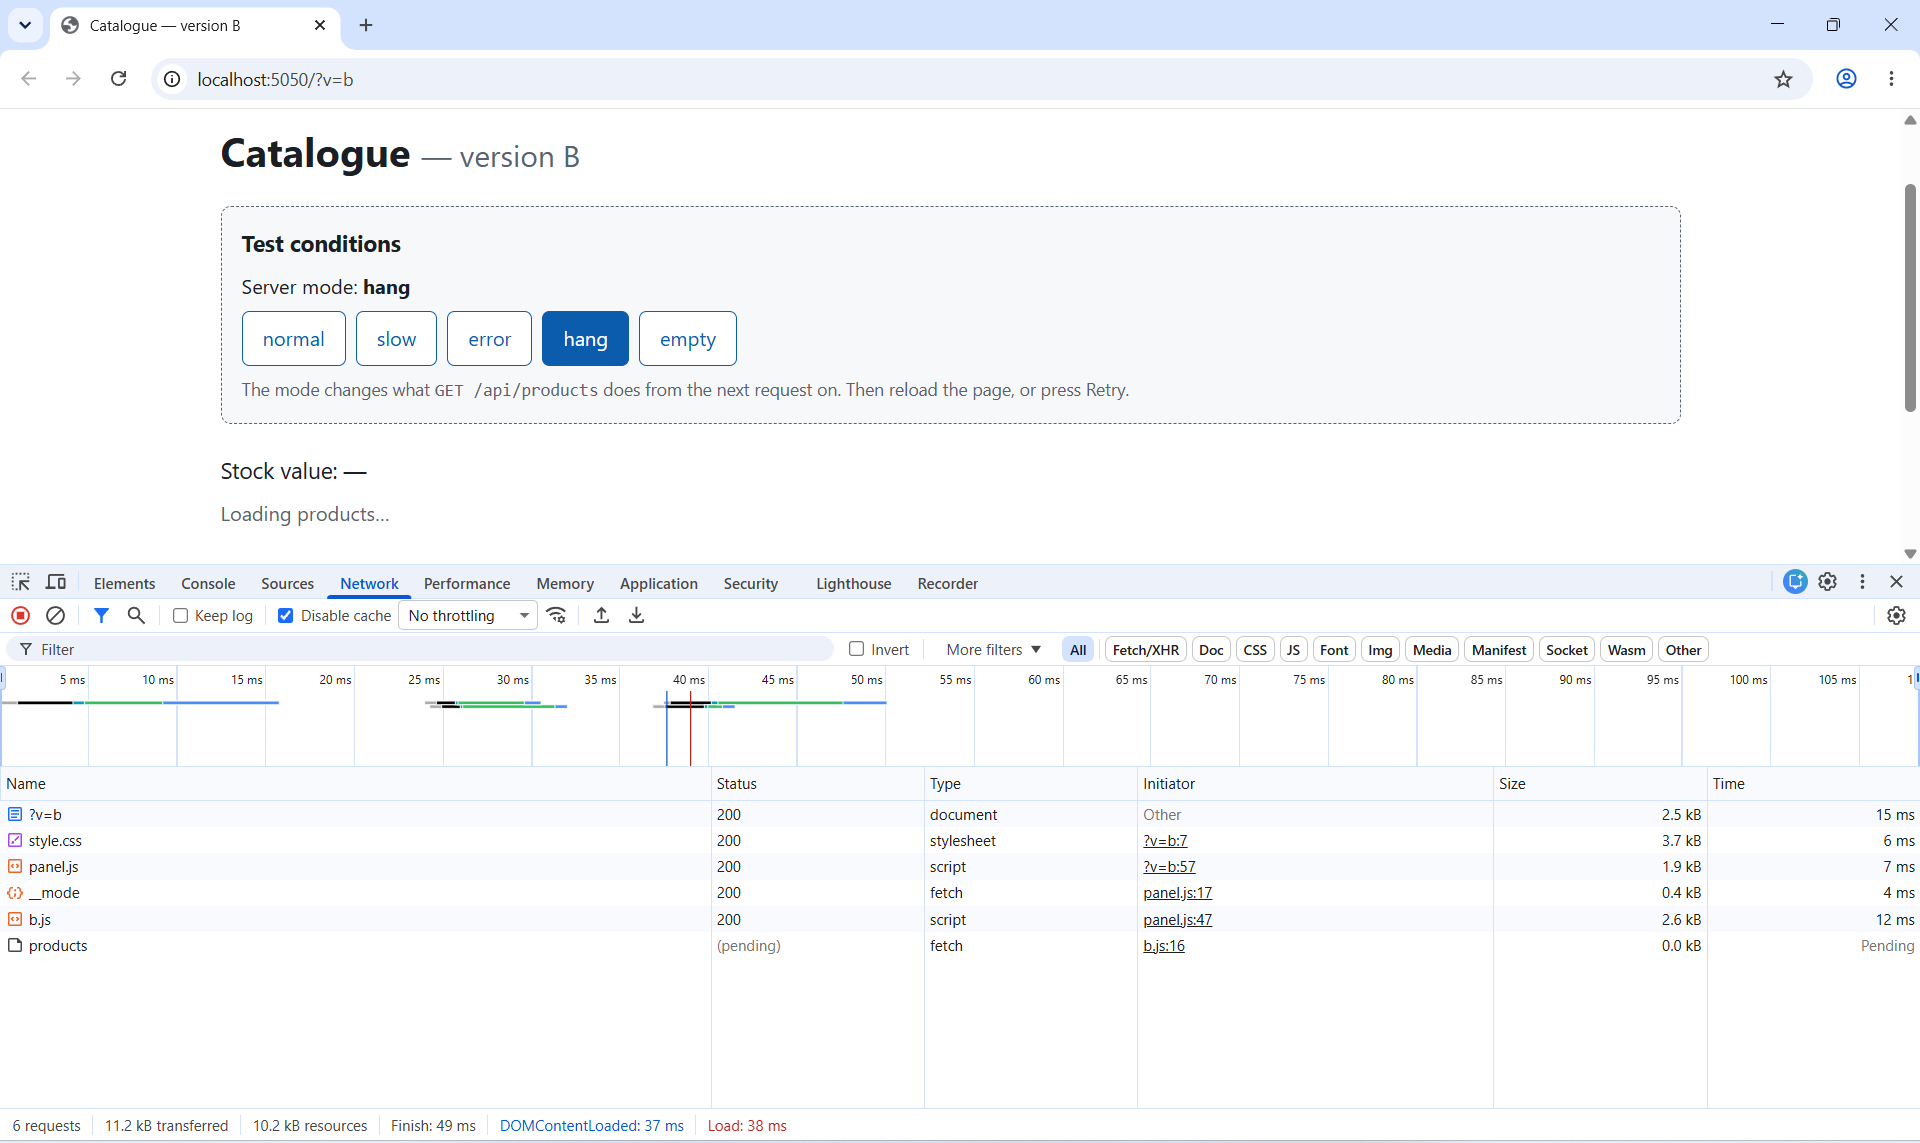
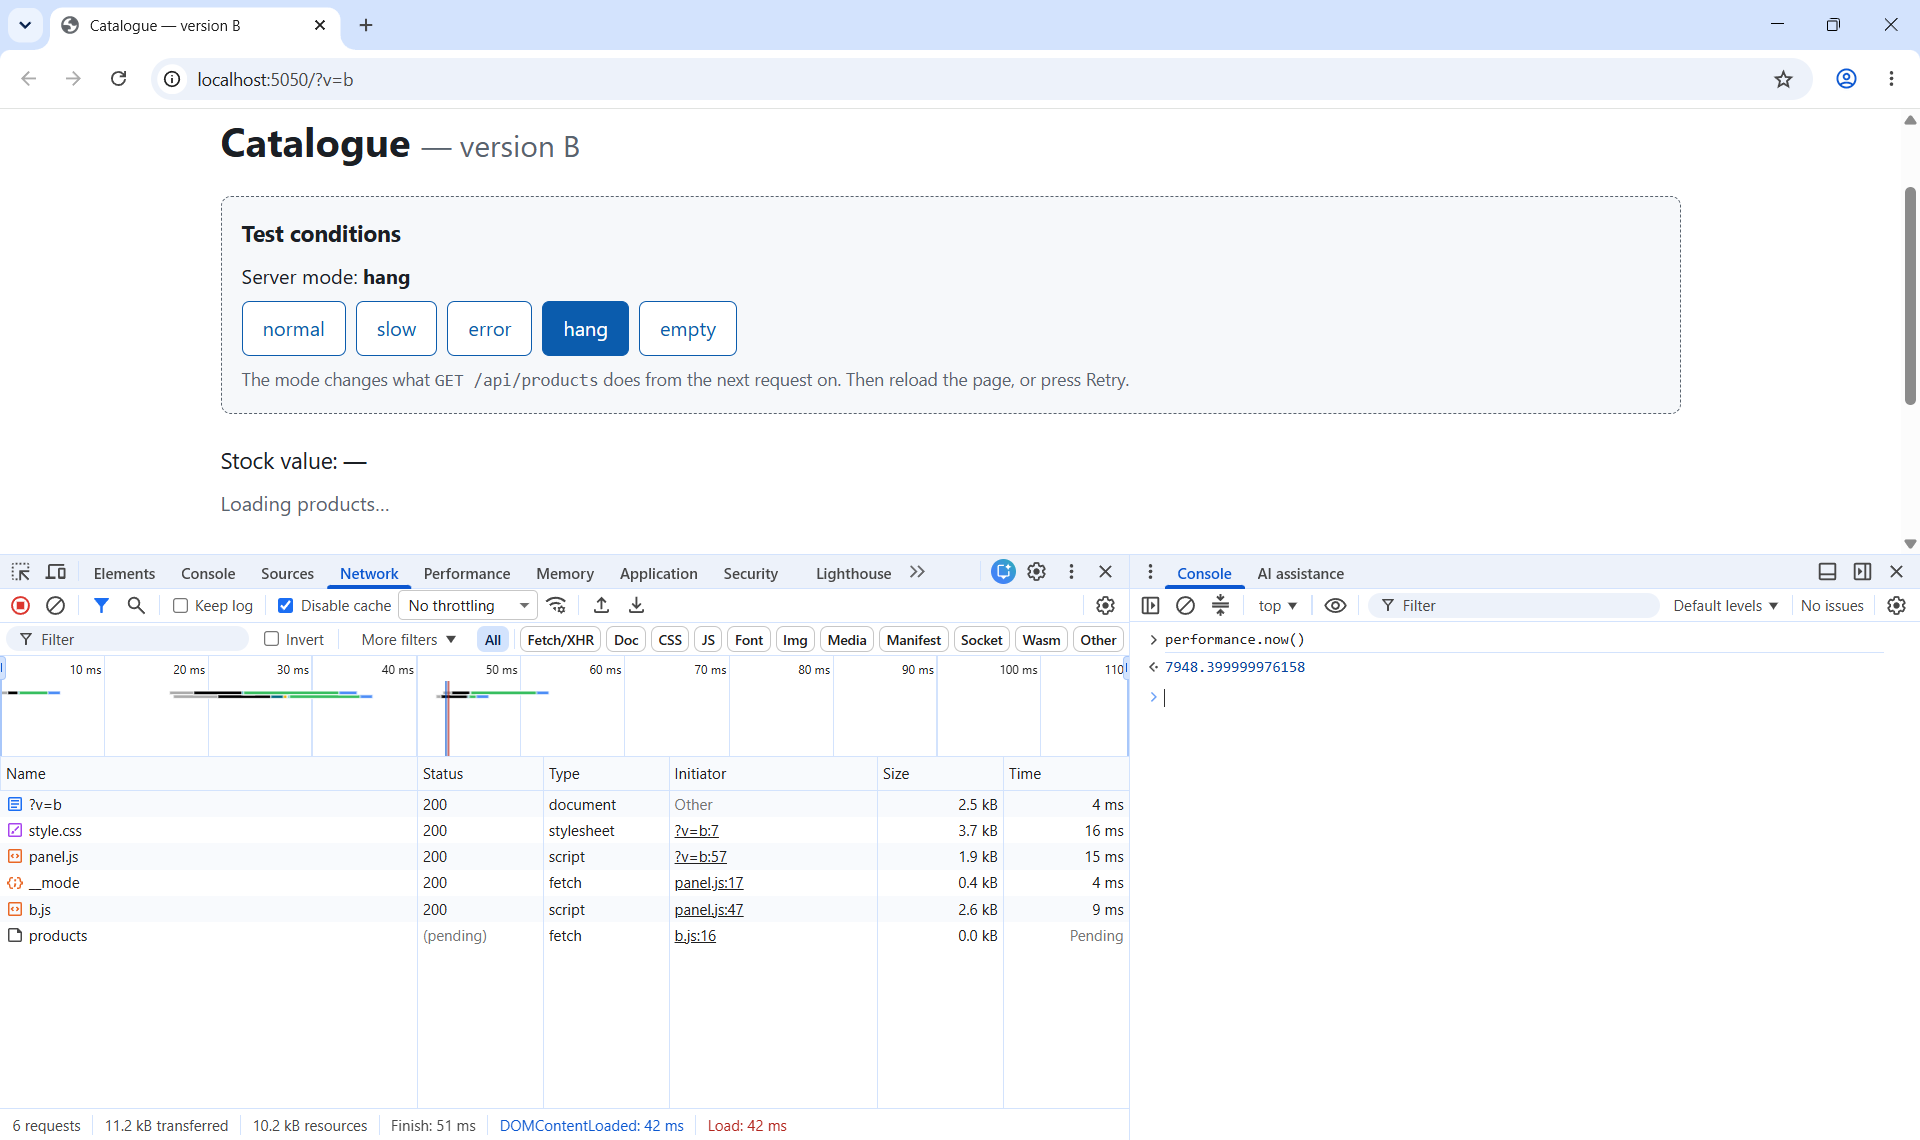
b-row6: retaken by hand with performance.now() showing 7.9 s

diff --git a/VERDICTS.md b/VERDICTS.md
@@ -110,11 +110,11 @@ like the `GET … 500` line the README mentions — not the version's code.
   `RequestInit`.
 - **Evidence:** [`evidence/b-row6.png`](evidence/b-row6.png) — `hang`,
   page `Loading products…` and `Stock value: —`, no Retry; Network:
-  `products` **(pending)**, initiator `b.js:16`.
-  [`evidence/b-row6-at30s.png`](evidence/b-row6-at30s.png) — the same page
-  load later (the other rows' times are identical: `?v=b` 15 ms, `b.js`
-  12 ms): `products` **504** after **30.01 s**, `Finish: 30.07 s`, and only
-  then `Could not load products.` + Retry — so nothing gave up at 5 s.
+  `products` **(pending)**, initiator `b.js:16`; Console `performance.now()`
+  = **7948** ms since the page load — past the 5 s, still loading.
+  [`evidence/b-row6-at30s.png`](evidence/b-row6-at30s.png) — another load,
+  left to the end: `products` **504** after **30.01 s**, `Finish: 30.07 s`,
+  and only then `Could not load products.` + Retry — nothing gave up at 5 s.
   [`evidence/b-row8.png`](evidence/b-row8.png) — VS Code with the folder
   open, `// @ts-check` on line 1 of `b.js`: `timeout` underlined, hover and
   Problems panel `Object literal may only specify known properties, and

diff --git a/AI-LOG.md b/AI-LOG.md
@@ -306,3 +306,19 @@ second pass, started again from the untouched starter.
 - **Rejected:** my own earlier decision to drop them.
 - **By hand:** the decision to restore them.
 - **Commit:** `7a41c7f` notes restored; `7e05ea0` then dropped an outdated sentence from `tools/README.md`.
+
+---
+
+## 2026-11-01 — b-row6.png retaken with a clock
+- **Tool:** Claude Code, Claude Opus 5.5 — set-up only (served the original
+  starter copy on :5050, opened Chrome "version B" in `hang`).
+- **Asked for:** a way to make `b-row6.png` show on its own that more than
+  5 s had passed, since the third grading noted its Network footer
+  ("Finish: 49 ms") shows no time.
+- **Kept:** my new `b-row6.png`: `Loading products…`, `products (pending)`
+  from `b.js:16`, and `performance.now()` = 7948 ms in the Console drawer.
+- **Changed:** my first try showed the Console as a full tab, hiding the
+  Network panel — retaken with Network on top and the Console drawer below.
+- **Rejected:** —
+- **By hand:** the screenshot and the `performance.now()` call.
+- **Commit:** b-row6 with a clock (this entry).
